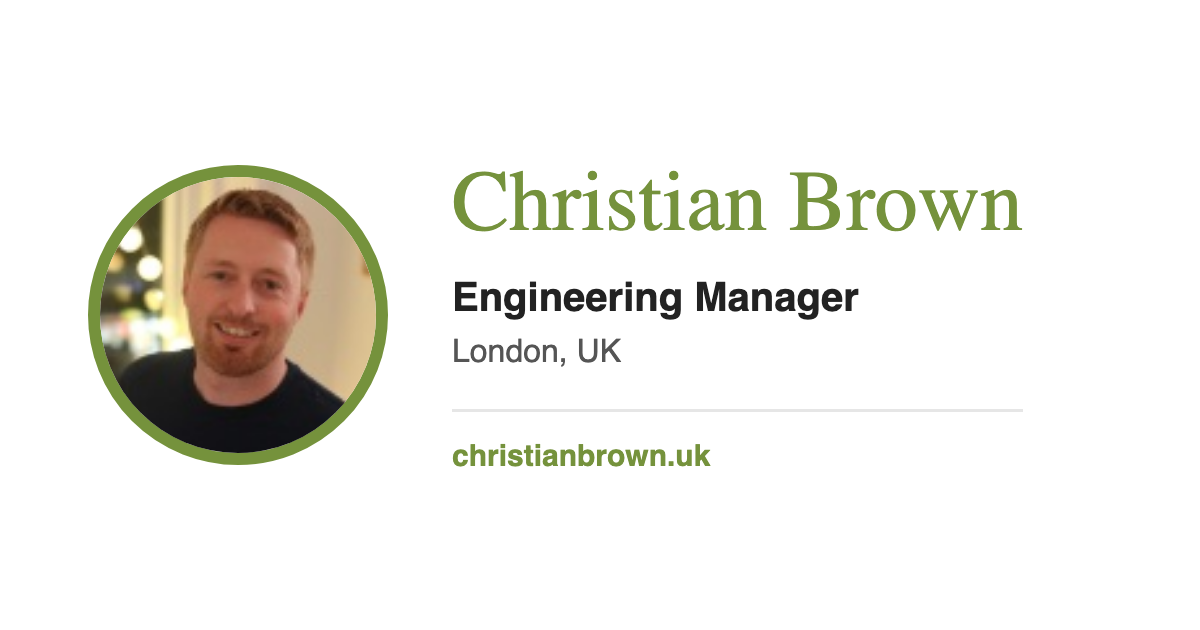
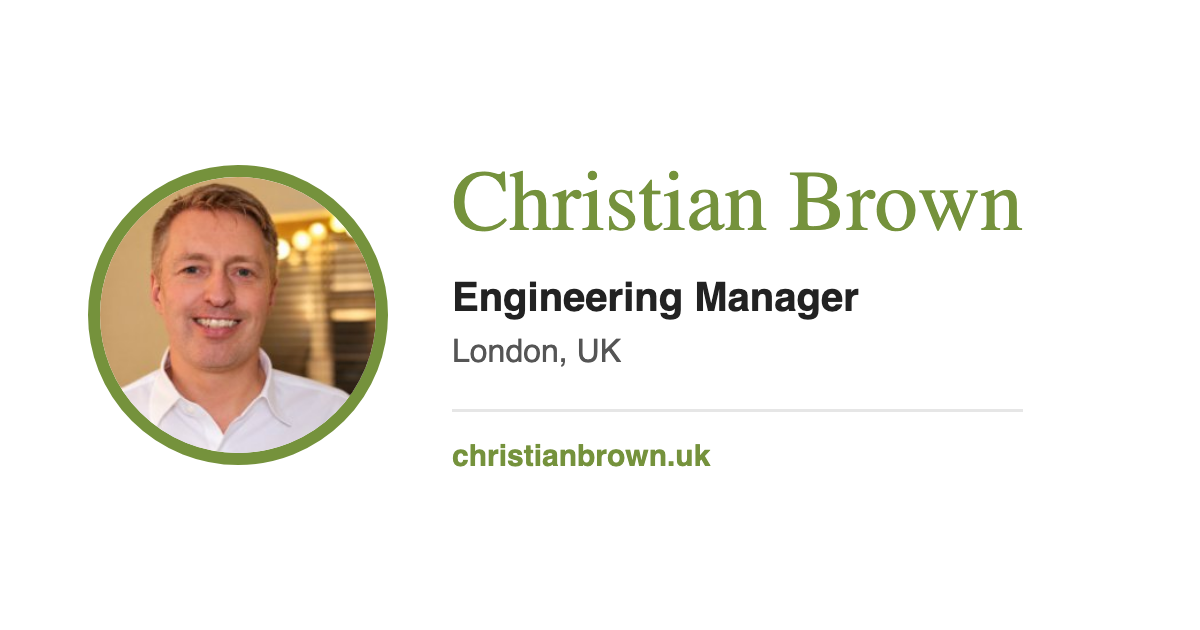
Update the portrait photo and everything cut from it
The header avatar, the five favicon PNGs, favicon.ico and the share card
are regenerated from a new photo.

A new bin/generate-icons.mjs (npm run icons) produces the avatar, the
circular favicons and the ICO from one source image, so the next change
is one command. The README documents it.

Changed region(s): [[0.0617, 0.2714, 0.3392, 0.7238]]

diff --git a/README.md b/README.md
@@ -48,6 +48,18 @@ npm run cv:pdf
 
 `bin/generate-cv-pdf.mjs` serves `_site`, waits for the JS layer to localise the date ranges (it is the only thing that knows a current role's live duration), rewrites every root-relative link to an absolute `christianbrown.uk` URL so links followed out of the PDF do not point at the localhost it was printed from, and prints with Chrome. Page size, margins and the "page N of M" footer all come from the `@page` rules in `assets/css/cv.scss`.
 
+# :camera: Portrait photo
+
+The header avatar, every favicon and `favicon.ico` are all cut from one photo, so a new portrait is one command. Give it a square image of at least 512px:
+
+```shell
+npm run icons -- path/to/photo.png
+bundle exec jekyll build
+npm run og:image
+```
+
+`bin/generate-icons.mjs` writes `assets/images/avatar.jpg` and the circular PNGs under `assets/images/favicon/`, and packs `favicon.ico` from the same crops. The share card is regenerated afterwards because it draws the avatar from the built site.
+
 # :test_tube: Testing
 
 CI runs on every push and pull request (see the badge above). To run the checks locally:
